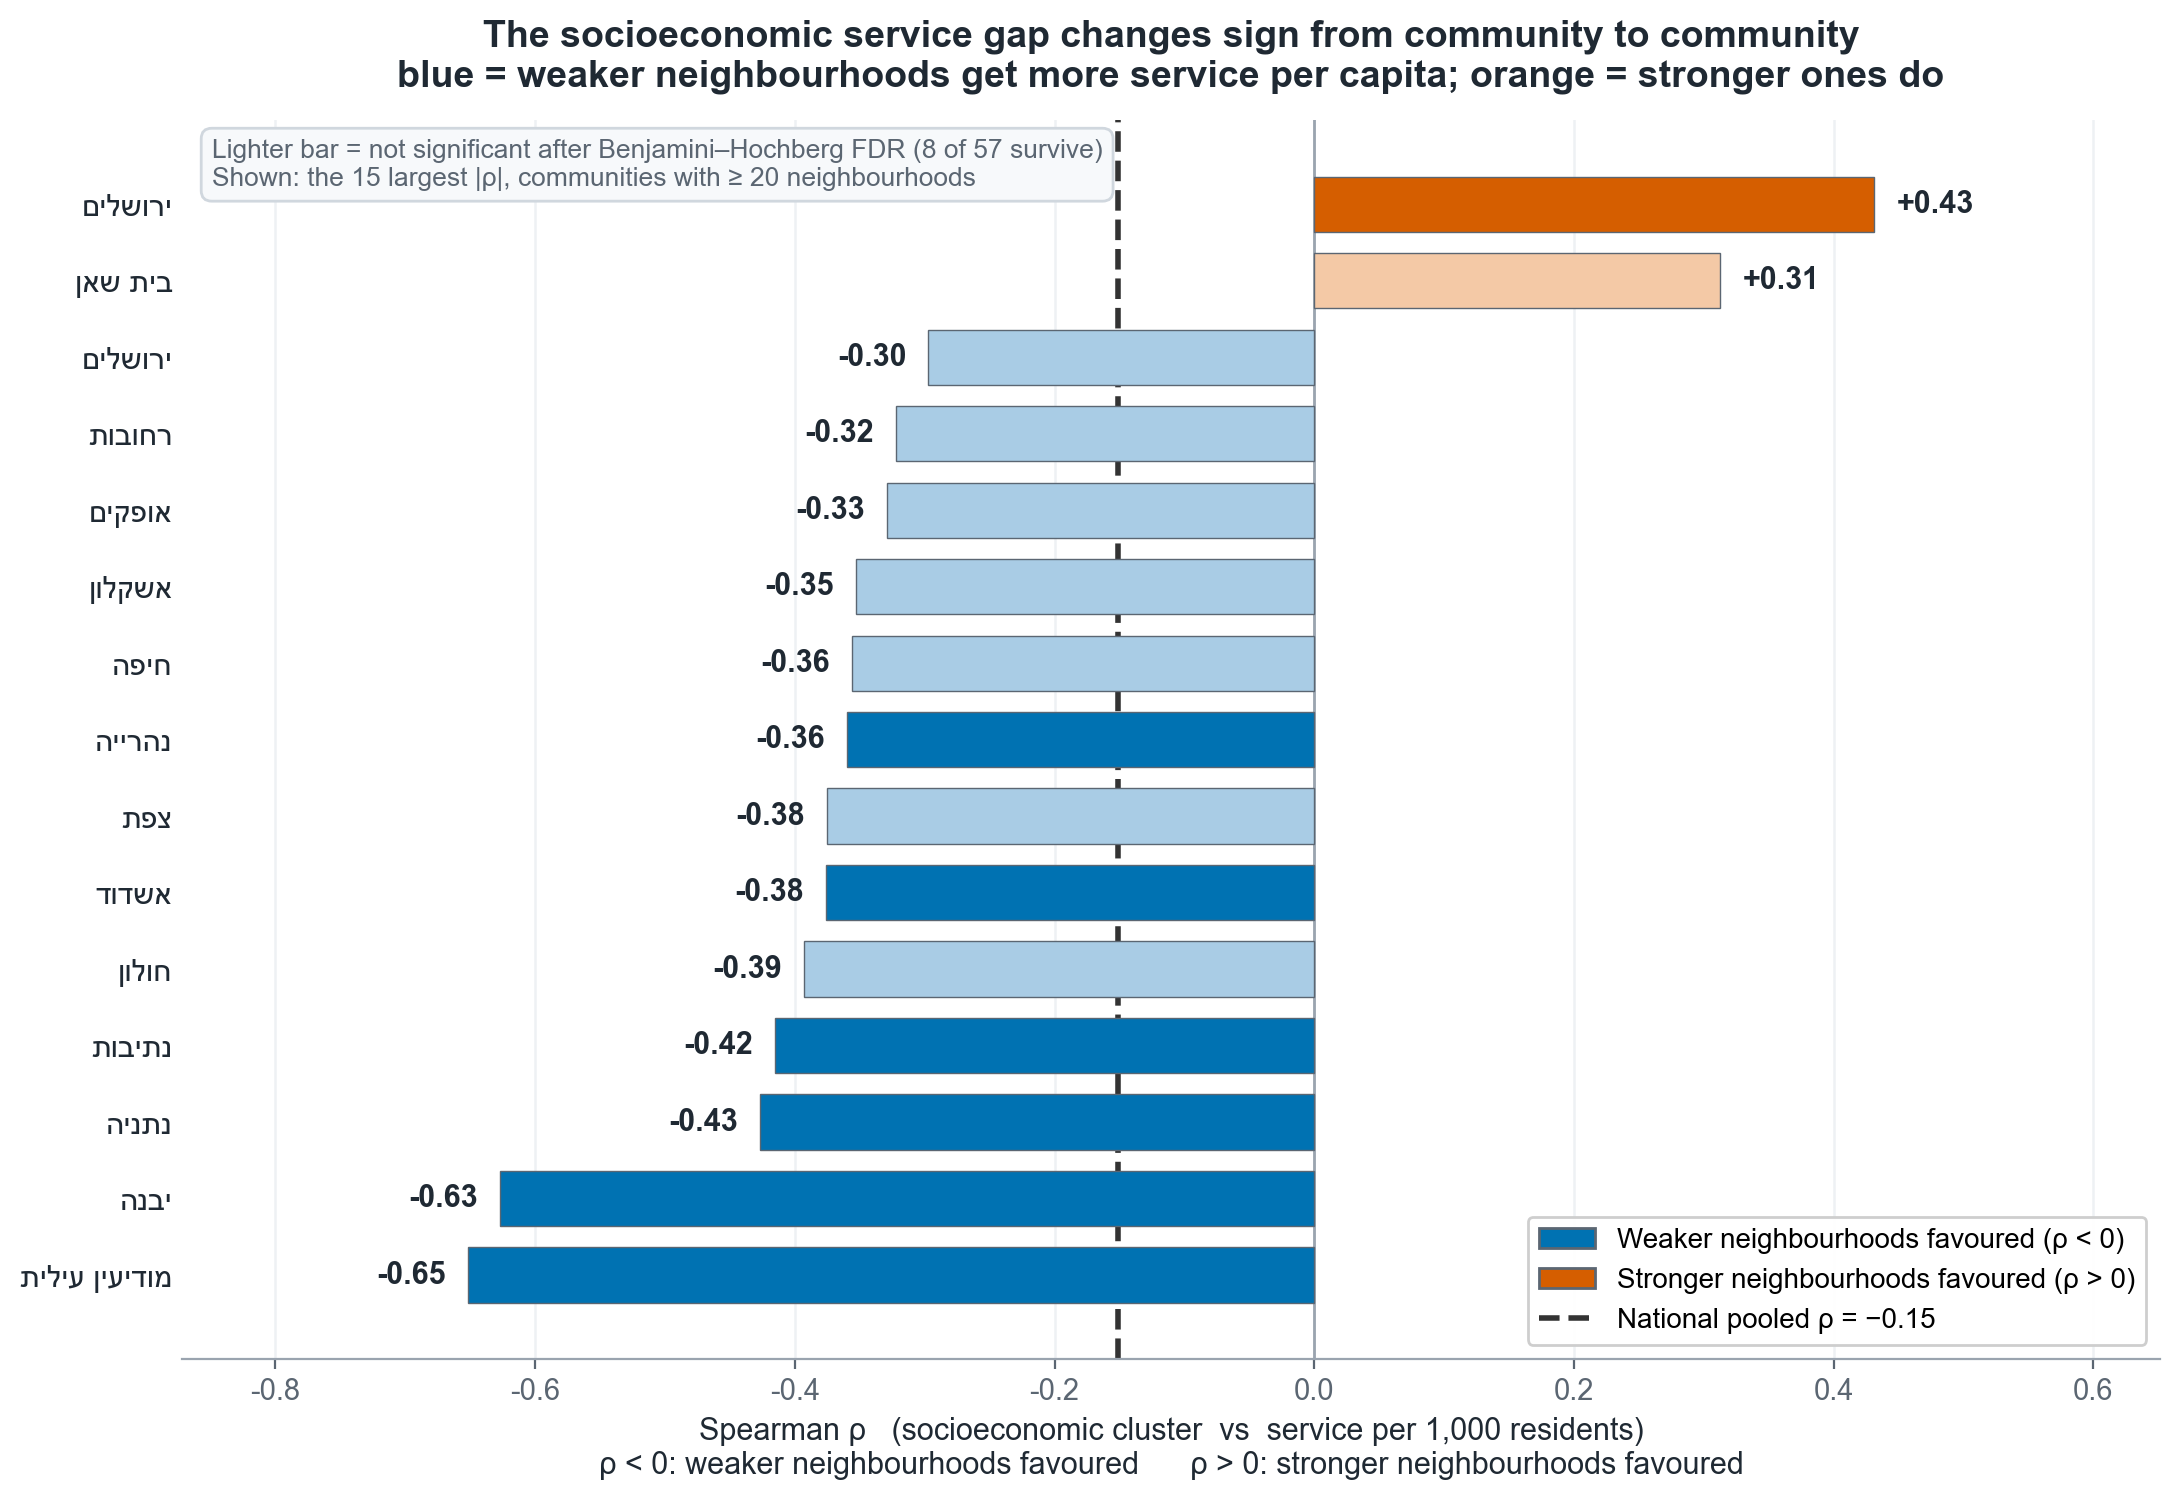
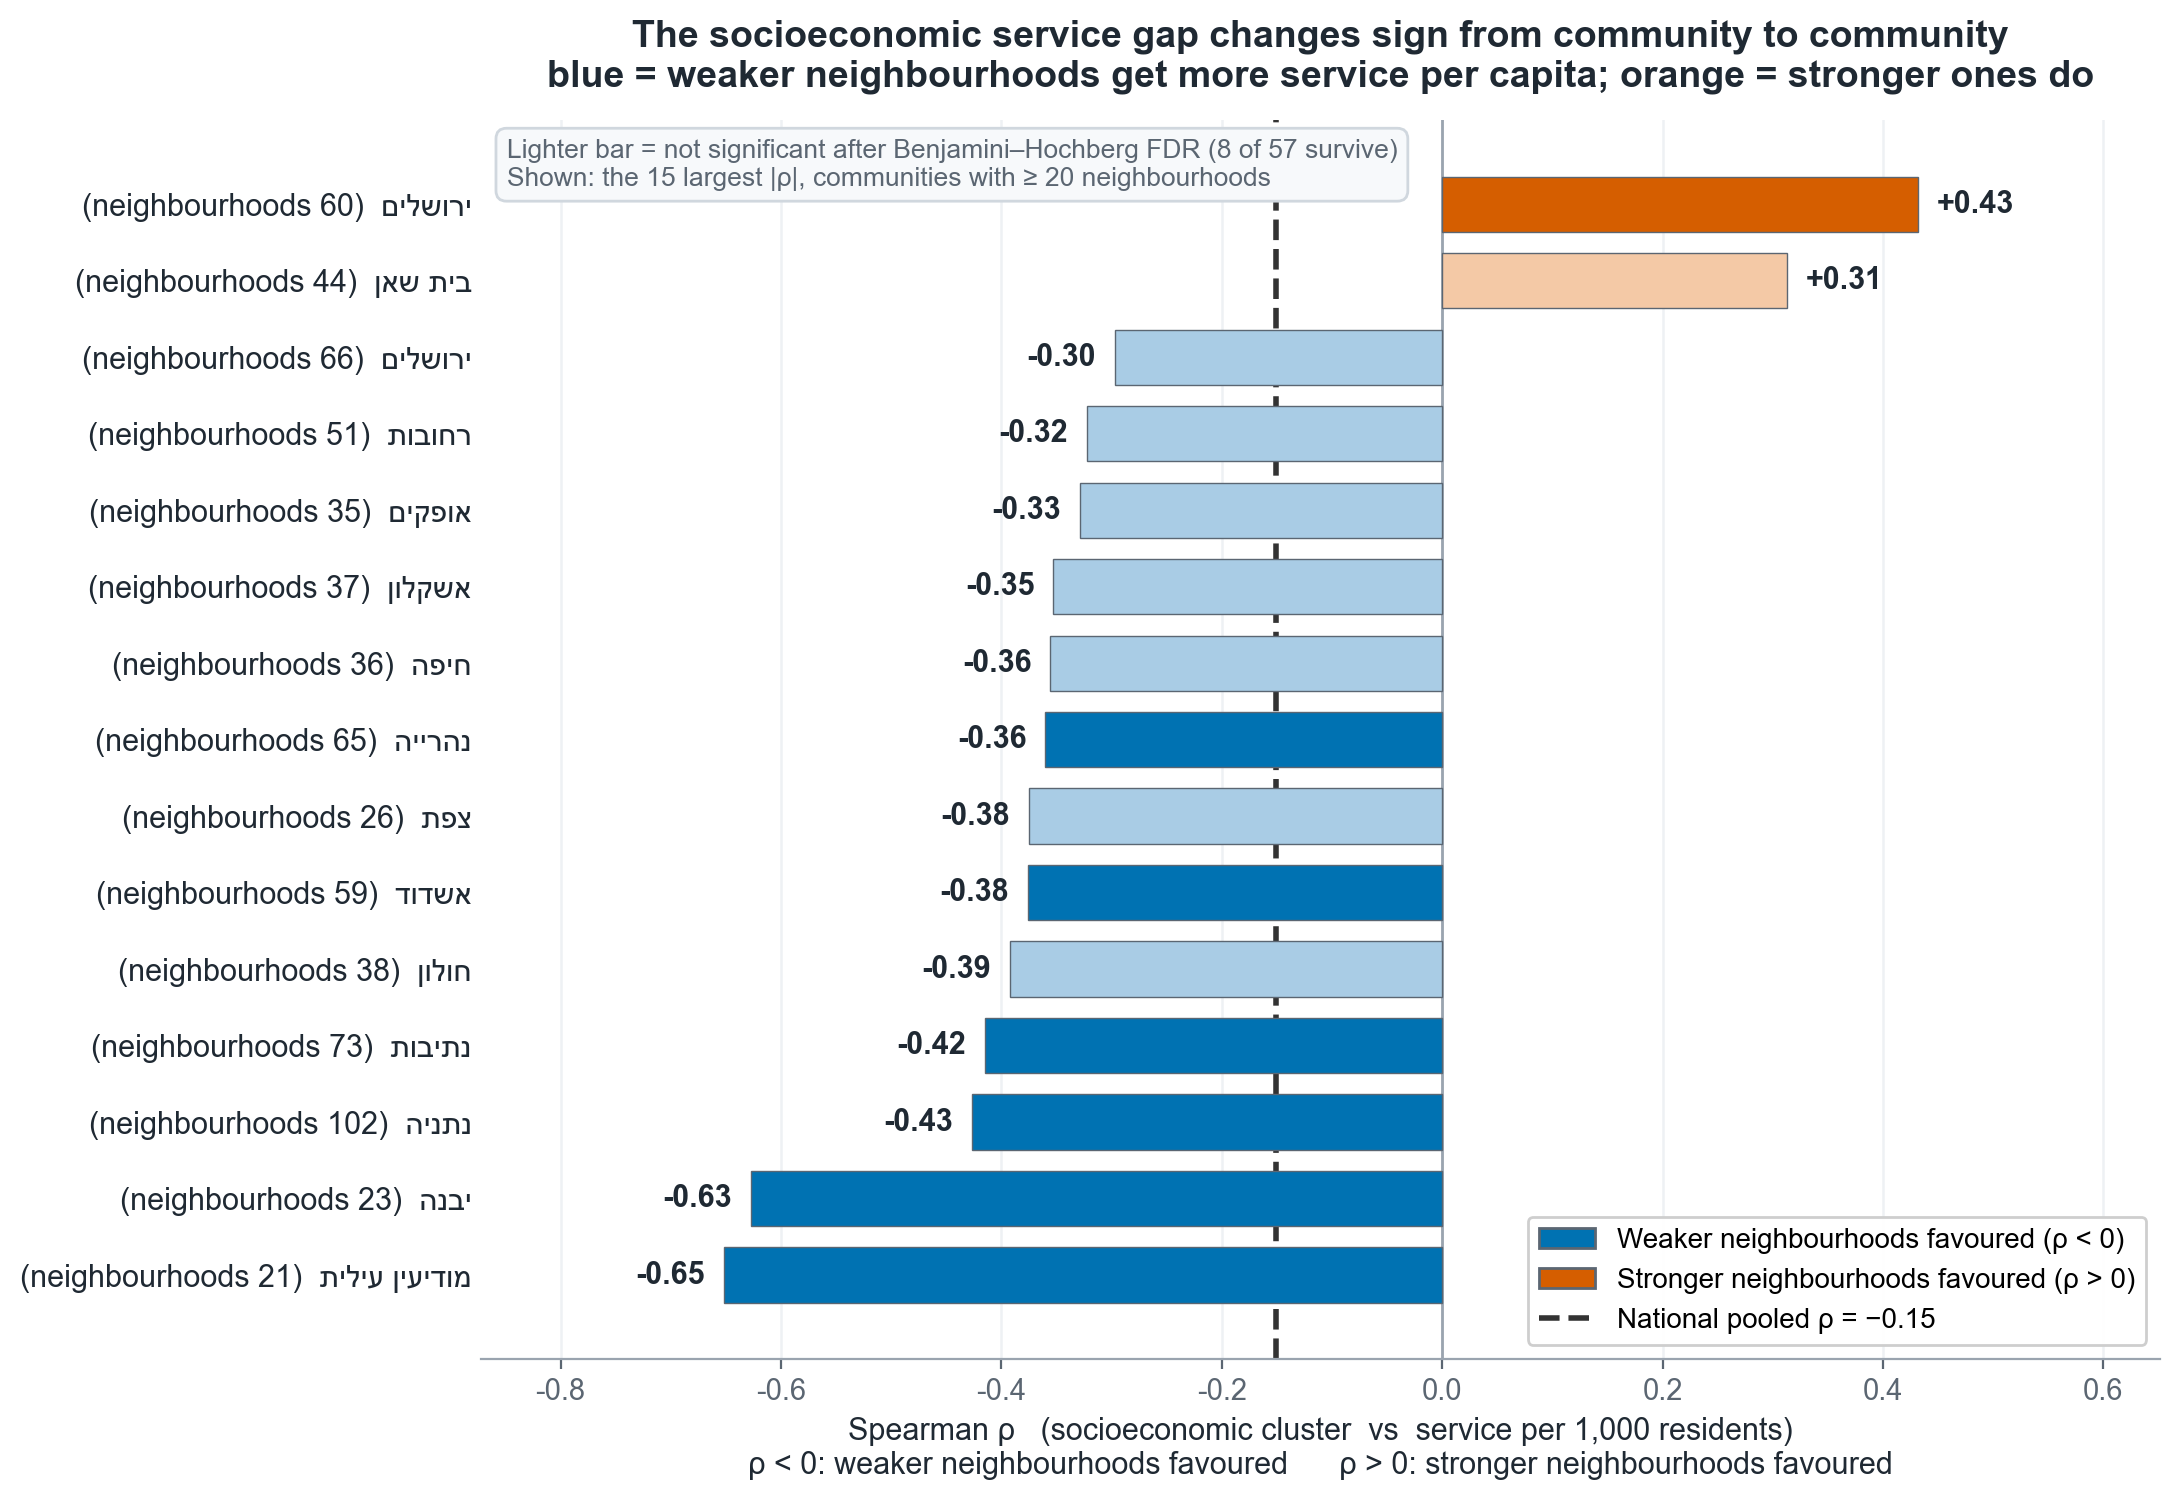
Restore the neighbourhood count on Simpson figure y-labels
The (N neighbourhoods) suffix is meaningful (community size, and it disambiguates
the two Jerusalem communities); keep the shortened two-line annotation.

diff --git a/reports/make_simpson_figure.py b/reports/make_simpson_figure.py
@@ -52,7 +52,8 @@ def bar_color(rho, sig):
     return POS if sig else POS_L
 
 colors = [bar_color(r, s) for r, s in zip(bar["rho_use_per_capita"], bar["significant_fdr_05"])]
-labels = [fix_he(str(c)) for c in bar["dominant_city"]]
+labels = [fix_he("%s  (%d neighbourhoods)" % (c, n))
+          for c, n in zip(bar["dominant_city"], bar["n_neighborhoods"])]
 
 plt.rcParams.update({"font.family": ["Arial", "DejaVu Sans"], "axes.unicode_minus": False})
 fig, ax = plt.subplots(figsize=(11, 7.6), dpi=200)
